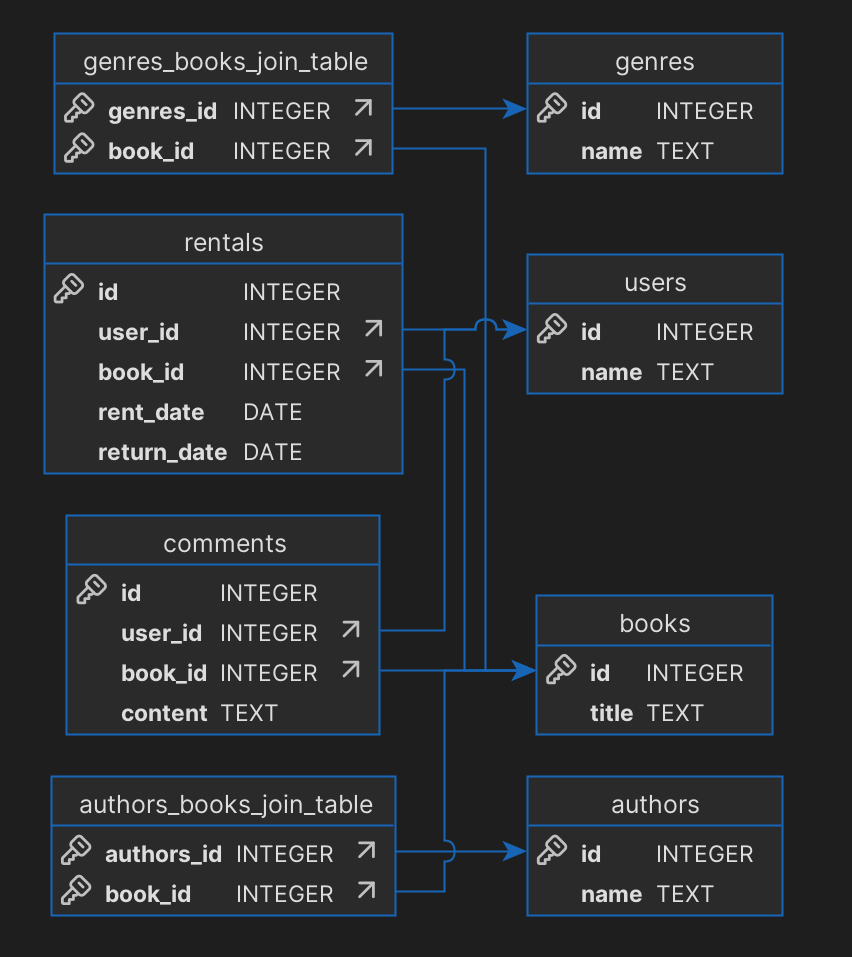
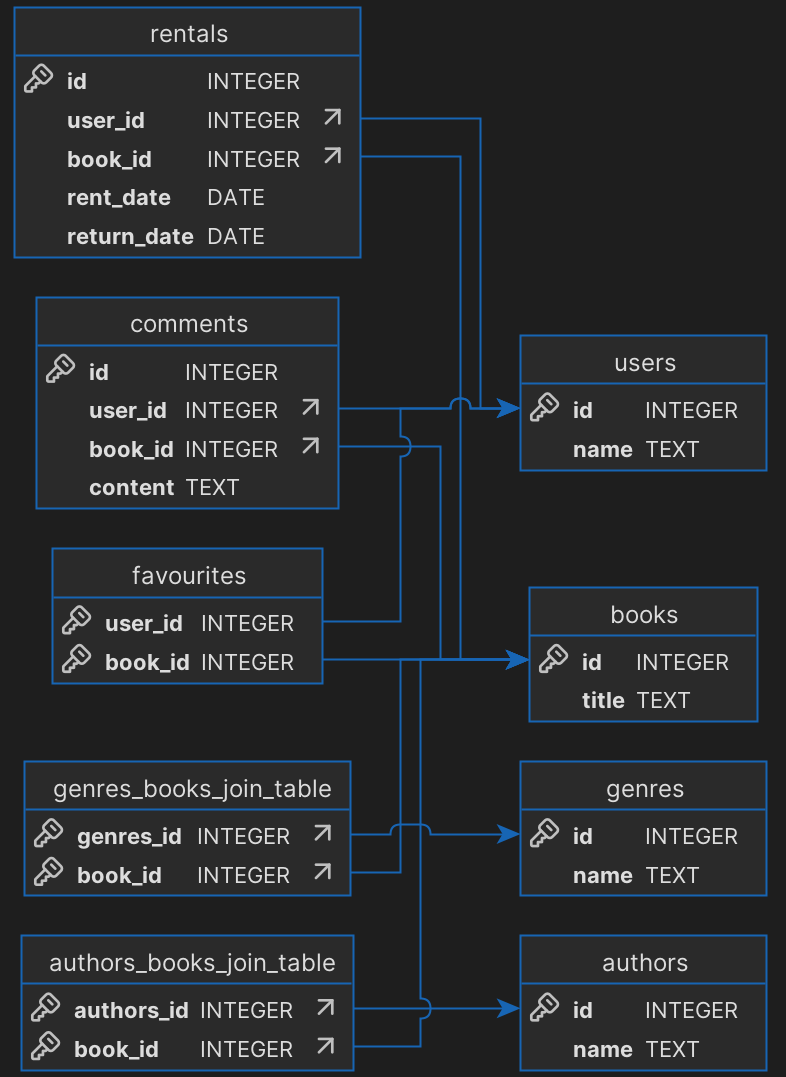
Add `favourites` table to database schema and update ERD diagram

Changed region(s): [[0.0, 0.0, 0.9771, 1.0]]

diff --git a/database.cpp b/database.cpp
@@ -67,6 +67,18 @@ CREATE TABLE IF NOT EXISTS rentals (
     FOREIGN KEY(book_id) REFERENCES books(id)
 ))");
 
+    // FAVOURITES
+    query.exec(R"(
+CREATE TABLE IF NOT EXISTS favourites
+(
+    user_id INTEGER NOT NULL,
+    book_id INTEGER NOT NULL,
+    FOREIGN KEY(user_id) REFERENCES users (id),
+    FOREIGN KEY(book_id) REFERENCES books (id),
+    PRIMARY KEY (user_id, book_id)
+);
+))");
+
     // AUTHORS_BOOKS_JOIN_TABLE
     query.exec(R"(
 CREATE TABLE IF NOT EXISTS authors_books_join_table (
